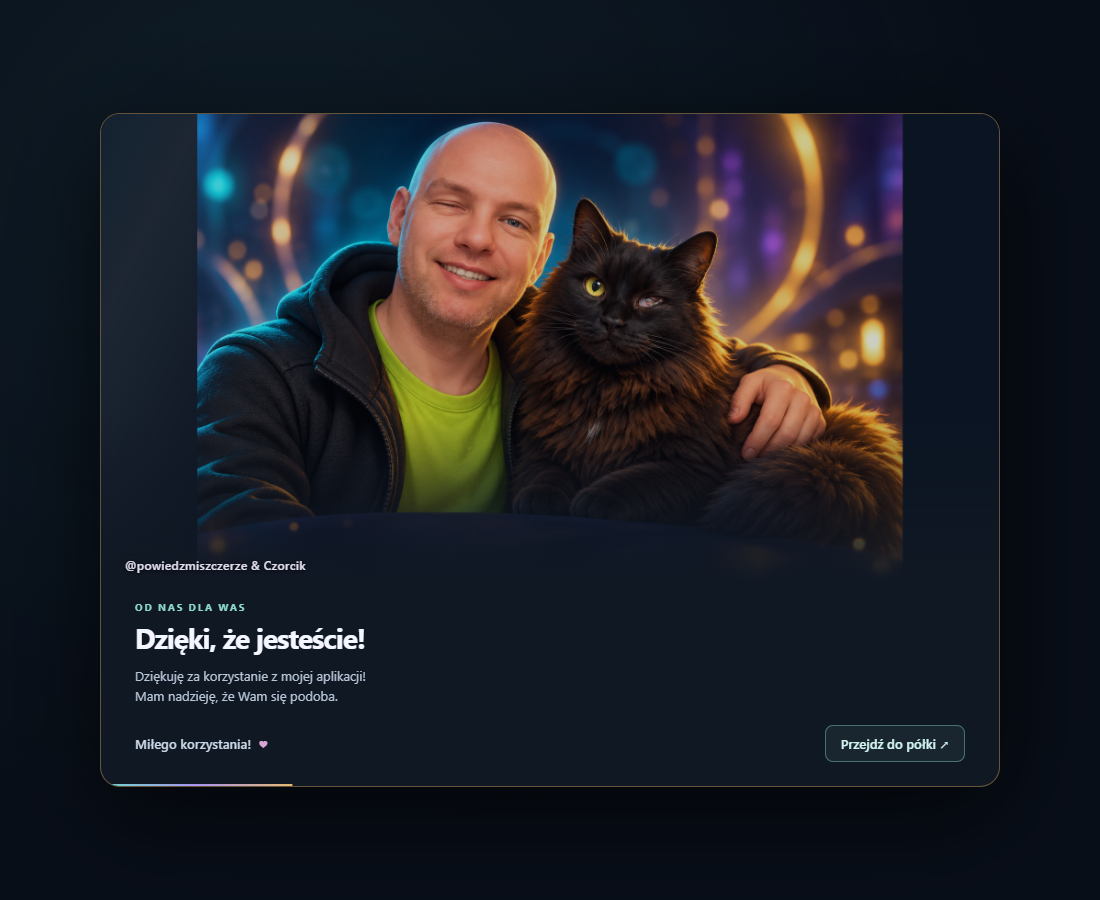
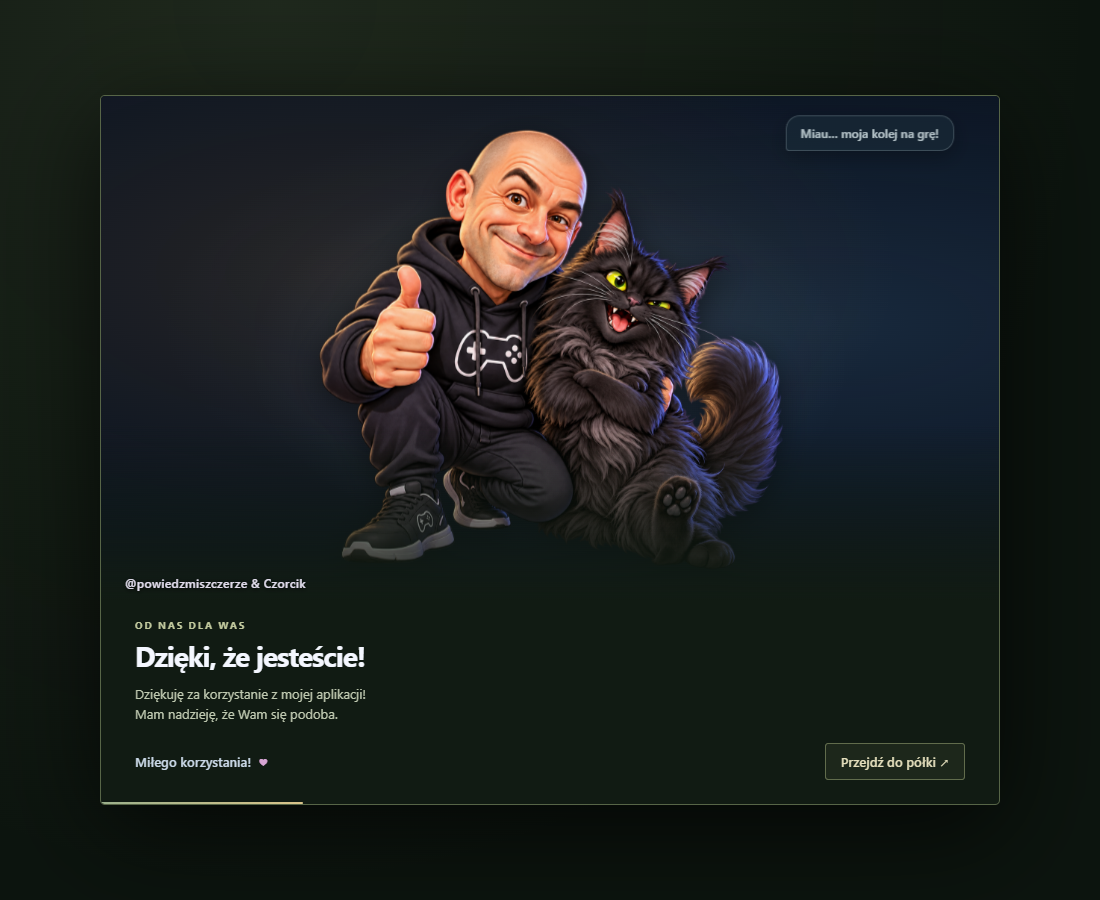
Release 0.19.0 new animated startup greeting

diff --git a/README.md b/README.md
@@ -19,7 +19,7 @@ ARCADE zamienia listę gier w przestrzenną kolekcję pudełek na półkach. Ust
 
 <img src="docs/screenshots/czort-collection.png" alt="Widget ARCADE w motywie Gaming Night Shift — ciemna szafka, podświetlenie i pudełka gier Steam" width="650">
 
-## 0.18.1 — usunięcie kociej serii inspirowanej grami
+## 0.19.0 — usunięcie kociej serii inspirowanej grami
 
 - Usunięte figurki Zephyr, Sora, Nyx, Brim, Kai, Luna, Mori, Pix, Neko i Vyra z menu, katalogu, animacji i paczki aplikacji.
 - Pozostają realistyczny Czort w sześciu pozach oraz sześciu szczurzych antybohaterów.
@@ -179,7 +179,7 @@ Na półce pozostaje jeden widok: **grzbiety z tytułami**. Widok okładek przod
 
 ## Instalator i Aurora Circuit
 
-Pobierz **ARCADE-Setup-0.18.1-win-x64.exe** z najnowszego wydania. Polski instalator dodaje skróty i wpis do odinstalowania; nie wymaga konta administratora. Opcjonalnie włącza start z Windows.
+Pobierz **ARCADE-Setup-0.19.0-win-x64.exe** z najnowszego wydania. Polski instalator dodaje skróty i wpis do odinstalowania; nie wymaga konta administratora. Opcjonalnie włącza start z Windows.
 
 **Aurora Circuit** to czwarty motyw: ruchome światło zorzy, delikatne cząsteczki, obwody oraz sygnały LED na półkach. Włączysz go przez **ikonę obok zegara → Motyw graficzny → Animowany · Aurora Circuit**. Animacje respektują systemowe ograniczenie ruchu i pauzują po ukryciu okna.
 
@@ -206,12 +206,12 @@ Większe pudełka i dopasowane do długości tytułów napisy. Przeciągnij gór
 
 ## Pobierz i uruchom
 
-1. Przejdź do **[Releases](https://github.com/codewojcik-arch/arcade-game-shelf/releases/latest)** i pobierz **ARCADE-Setup-0.18.1-win-x64.exe**.
+1. Przejdź do **[Releases](https://github.com/codewojcik-arch/arcade-game-shelf/releases/latest)** i pobierz **ARCADE-Setup-0.19.0-win-x64.exe**.
 2. Uruchom instalator, wybierz folder i opcjonalne skróty oraz autostart.
 3. Po instalacji uruchom **ARCADE** z menu Start lub pulpitu.
 4. Ustawienia, motywy, figurki i zamknięcie znajdziesz pod ikoną obok zegara Windows.
 
-Alternatywnie pobierz **ARCADE-0.18.1-win-x64.zip**, wypakuj cały folder i uruchom ARCADE.exe. Samo EXE wymaga pozostałych plików paczki. Instalator zachowuje lokalny folder cache podczas aktualizacji i odinstalowania; może zawierać ustawienia oraz zapisane połączenie Steam i sesję GOG. Możesz usunąć ten folder samodzielnie po odinstalowaniu.
+Alternatywnie pobierz **ARCADE-0.19.0-win-x64.zip**, wypakuj cały folder i uruchom ARCADE.exe. Samo EXE wymaga pozostałych plików paczki. Instalator zachowuje lokalny folder cache podczas aktualizacji i odinstalowania; może zawierać ustawienia oraz zapisane połączenie Steam i sesję GOG. Możesz usunąć ten folder samodzielnie po odinstalowaniu.
 
 **Wymagania:** Windows 10/11 64-bit, Steam i internet do pobrania okładek. Runtime jest dołączony — nie instalujesz osobno Node.js. Okna Full HD, 1440p i 4K są objęte testami układu. Instalator nie ma jeszcze komercyjnego podpisu cyfrowego; Windows może pokazać nieznanego wydawcę. Pobieraj z oficjalnego repozytorium.
 
@@ -281,3 +281,4 @@ Obudowa zegara i tarcza automatycznie dopasowują materiały oraz kolory do moty
 
 
 Monitor systemu również automatycznie dopasowuje obudowę, tarcze, napisy i kolory wykresów do aktywnego motywu półki. Zmiana stylu nie wymaga restartu ani ponownego dodania widgetu.
+

diff --git a/CHANGELOG.md b/CHANGELOG.md
@@ -1,5 +1,13 @@
 # Historia zmian
 
+## 0.19.0 — Nowe powitanie gracza i psotnego kota
+
+- Nowa ilustracja dostarczona przez autora, z zachowaną przezroczystością i jakością oryginału.
+- Delikatne kołysanie postaci i zabawny dymek kota, bez deformacji twarzy i łap.
+- Poprzednia grafika i animacja zbliżenia usunięte. Instalator sprząta stary plik powitalny.
+- Powitanie tylko przy starcie aplikacji, raz na uruchomienie, z możliwością pominięcia.
+- Wydanie zawiera też dopasowanie monitora systemu do wszystkich pięciu motywów półki.
+
 ## 0.18.1 — Monitor dopasowany do motywu półki
 
 - Monitor automatycznie przejmuje styl aktywnej półki: Klasyczny, Orzech i mosiądz, Night Shift, Aurora Circuit i Szlak Wilka.
@@ -333,6 +341,7 @@ Testy: import wielostronicowy, ukryte gry, zmiana konta, tryb offline, sprawdzen
 - Animacja pudełka, płyty i napędu PC z lat 90.
 - Kot i szczur, dodatkowe pozy, spacer i strącanie pudełka łapką.
 - Autostart, zapis układu, menu w zasobniku i podpis autora.
+
 
 
 
